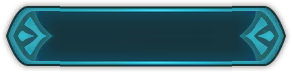
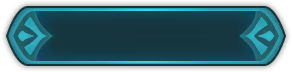
fix: 彻底消除预渲染按键1px边缘阶梯错位，校准页签与卡池全量UILabel字体颜色和描边

Changed region(s): [[0.1849, 0.8333, 0.8014, 0.9444], [0.1849, 0.0833, 0.8014, 0.1667]]

diff --git a/src/components/gacha/GachaPoolPanel.vue b/src/components/gacha/GachaPoolPanel.vue
@@ -268,7 +268,7 @@
       <template v-if="option.exchange">
         <span class="g-text g-text--md draw-cost__or">或</span>
         <img class="draw-cost__icon" :src="getImageUrl(option.exchange.icon)" alt="" />
-        <span class="g-text g-text--md">{{ option.exchange.text }}</span>
+        <span class="g-text g-text--md" :class="{ 'g-text--danger': !option.exchange.enough }">{{ option.exchange.text }}</span>
       </template>
     </div>
 
@@ -524,6 +524,8 @@ function upAvatar(candidate) {
   /* 左边缘锚定（左对齐），不再做水平居中 */
   transform: translateY(-50%);
   white-space: nowrap;
+  /* prefab UILabel #49693: mEffectStyle=2 (Outline), mEffectColor=#000000 */
+  text-shadow: -1px 0 0 #000, 1px 0 0 #000, 0 -1px 0 #000, 0 1px 0 #000;
 }
 
 /* 货币槽：bg 位于 -23（pivot=Left，向右展开），icon @0，Label @61，add @119。
@@ -651,9 +653,10 @@ function upAvatar(candidate) {
   white-space: nowrap;
   overflow: hidden;
   text-overflow: ellipsis;
-  /* 页签名比通用小字大一档，和游戏里一样在牌面上读得清 */
+  /* prefab UILabel #49708: fontSize=26, mColor=#e6d2af */
   font-size: 26px;
   font-weight: 600;
+  color: #e6d2af;
 }
 
 .pool-tab__time-icon {
@@ -691,13 +694,15 @@ function upAvatar(candidate) {
   font-weight: 700;
   text-align: right;
   transform: translate(-100%, -50%);
-  color: var(--gacha-ink);
+  /* prefab UILabel #49806: 指定伙伴 = #cfba96 (ColorString[2]) */
+  color: #cfba96;
 }
 
 /* desc0「概率提升！」与 desc1 同一行、同为 fontSize=28（prefab），此处改为左对齐排在右侧 */
 .up-boost {
   text-align: left;
   transform: translate(-50%, -50%);
+  /* prefab UILabel #49818: 概率提升！ = #f8eedc (ColorString[1]) */
   color: var(--gacha-ink);
 }
 

diff --git a/src/components/gacha/GachaResultPanel.vue b/src/components/gacha/GachaResultPanel.vue
@@ -118,7 +118,7 @@
         <template v-if="drawOption.exchange">
           <span class="g-text g-text--md draw-cost__or">或</span>
           <img class="draw-cost__icon" :src="getImageUrl(drawOption.exchange.icon)" alt="" />
-          <span class="g-text g-text--md">{{ drawOption.exchange.text }}</span>
+          <span class="g-text g-text--md" :class="{ 'g-text--danger': !drawOption.exchange.enough }">{{ drawOption.exchange.text }}</span>
         </template>
       </div>
     </template>

diff --git a/src/utils/gachaCurrency.js b/src/utils/gachaCurrency.js
@@ -97,7 +97,8 @@ export function buildDrawOptions(pool, wallet, kind) {
     exchange: alternative
       ? {
         icon: alternative.icon,
-        text: `×${(Number(alternative.count) || 0) * count}`
+        text: `×${(Number(alternative.count) || 0) * count}`,
+        enough: (Number(wallet?.[alternative.typeId]) || 0) >= (Number(alternative.count) || 0) * count
       }
       : null
   })
